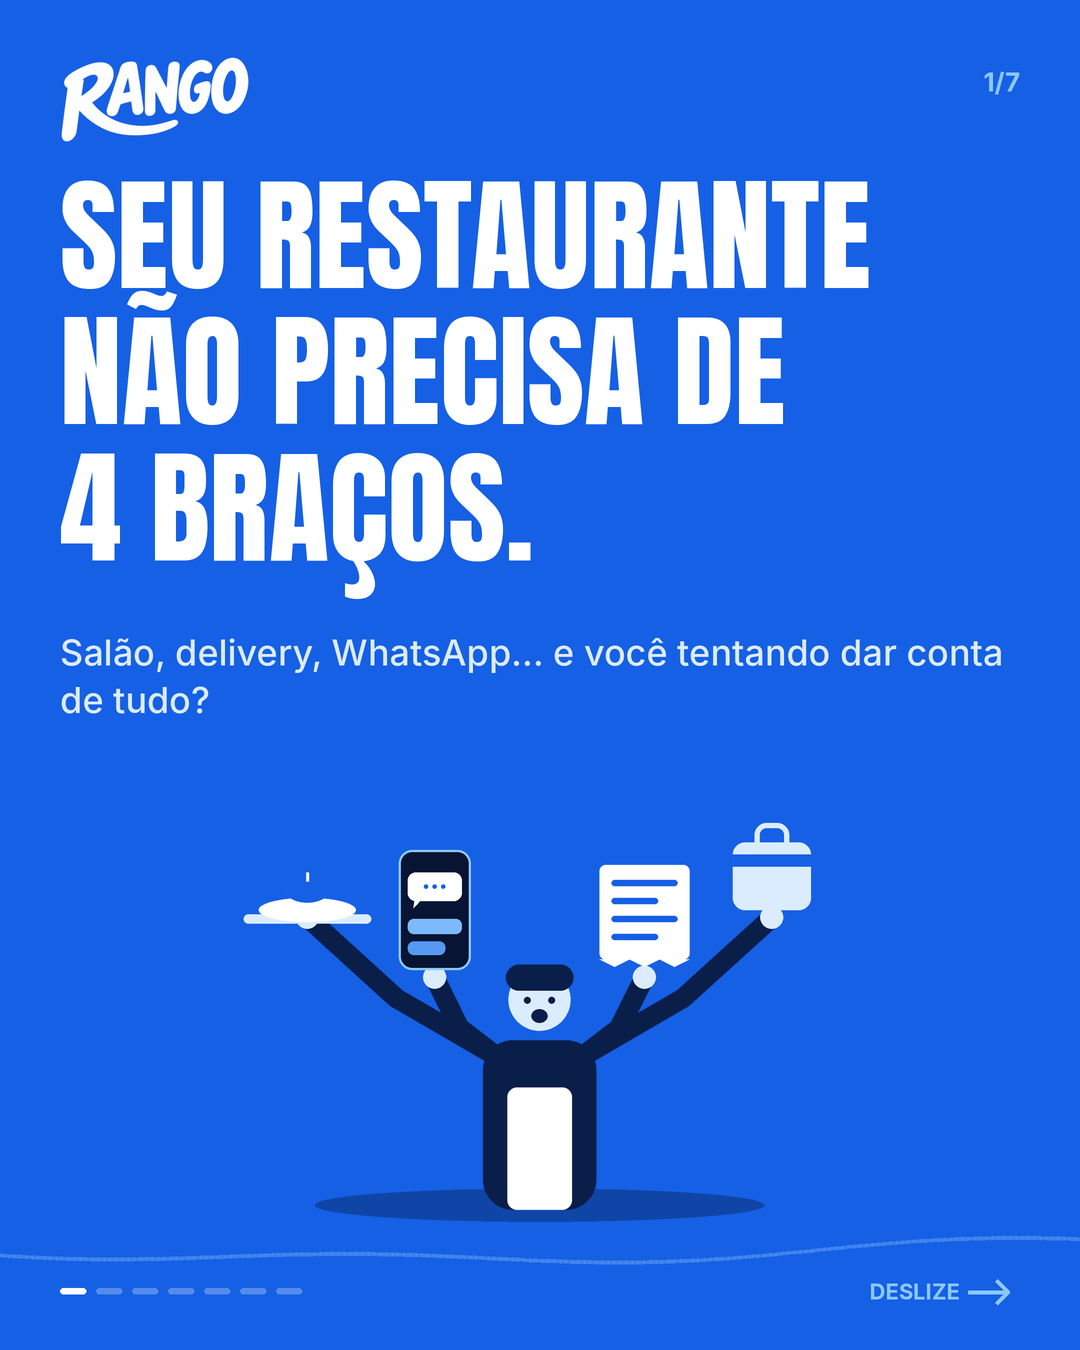
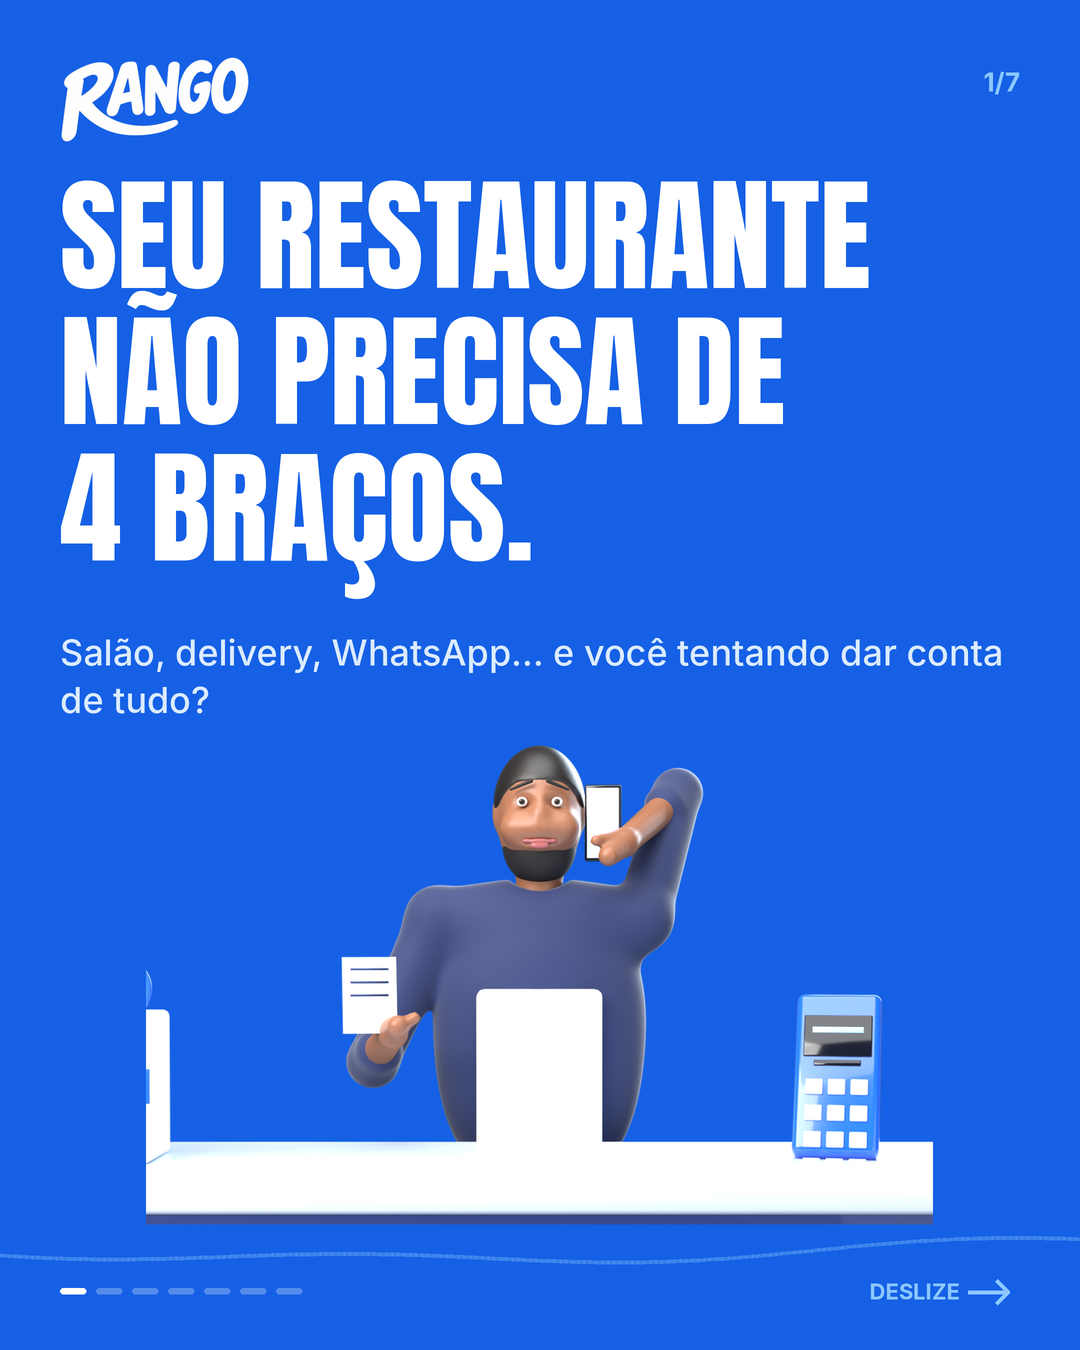
Carrossel Rango: paginas 1 e 5 com pessoas 3D no balcao e maquininha azul
Claude-Session: https://claude.ai/code/session_016NwTgTzAqM3zwqS1ziD931

Changed region(s): [[0.1222, 0.5289, 0.8861, 0.9333]]

diff --git a/carrossel-rango/carrossel.py b/carrossel-rango/carrossel.py
@@ -127,6 +127,14 @@ def notif_card(title, sub, kind, w=470, h=118):
 def tilt(img, deg): return img.rotate(deg, expand=True, resample=Image.BICUBIC)
 
 # ----------------------------------------------------------------- paginas (grade: titulo | ilustracao | texto de apoio | rodape)
+class FotoLayer:
+    """camada a partir de um render PNG (RGBA): recorta a area visivel e deixa so uma faixa do balcao."""
+    def __init__(self, path, base_w=960, crop=1.0):
+        im = Image.open(path).convert('RGBA'); a = np.array(im)[..., 3]; ys, xs = np.where(a > 8)
+        im = im.crop((xs.min(), ys.min(), xs.max()+1, ys.min()+int((ys.max()+1-ys.min())*crop)))
+        k = base_w/im.width; im = im.resize((base_w, int(im.height*k)), Image.LANCZOS)
+        self.w, self.h = im.size; self.img = im.resize((self.w*S, self.h*S), Image.LANCZOS)
+
 def place(c, layer, top, bottom):
     """encaixa a camada de ilustracao (RGBA, em escala S) centralizada entre top e bottom, sem ampliar."""
     im = layer.img; w, h = layer.w, layer.h; k = min(1.0, (bottom-top)/h, 960/w)
@@ -142,6 +150,8 @@ def base_slide(i, bg, titulo, cap=112, apoio=None, logo_w=190):
 def slide1():
     c, tb, bt = base_slide(1, BLUE, ['SEU RESTAURANTE', 'NÃO PRECISA DE', '4 BRAÇOS.'], 124)
     bs = body_bottom(c, 'Salão, delivery, WhatsApp… e você tentando dar conta de tudo?', bottom=tb+150, size=36)
+    foto = os.path.join(HERE, 'assets', 'cena_capa.png')
+    if os.path.exists(foto): place(c, FotoLayer(foto, 1000, 0.94), tb+170, 1225); return c.out()
     L = C(None, (1080, 640), True); cx, by = 540, 610
     L.ell([cx-300, by-18, cx+300, by+26], fill=(7, 20, 52, 90))
     hands = [(cx-310, by-380), (cx-140, by-300), (cx+140, by-300), (cx+310, by-380)]
@@ -193,6 +203,8 @@ def slide4():
 def slide5():
     apoio = 'Mais organização para acompanhar os pedidos, mais clareza para a equipe e mais tempo para cuidar do seu negócio.'
     c, tb, bt = base_slide(5, BLUE, ['VOCÊ NÃO PRECISA', 'SE DESDOBRAR PARA', 'ATENDER BEM.'], 112, apoio)
+    foto = os.path.join(HERE, 'assets', 'cena_equipe.png')
+    if os.path.exists(foto): place(c, FotoLayer(foto, 1000, 0.66), tb+40, bt-20); return c.out()
     L = C(None, (1080, 560), True); by = 530
     L.rr([60, by-6, W-60, by+30], 18, fill=(7, 20, 52, 120))
     person(L, 210, by, 0.95, arms=[(210-90, by-330)], calm=True, shirt=NAVY); tray(L, 210-165, by-345, 150)
